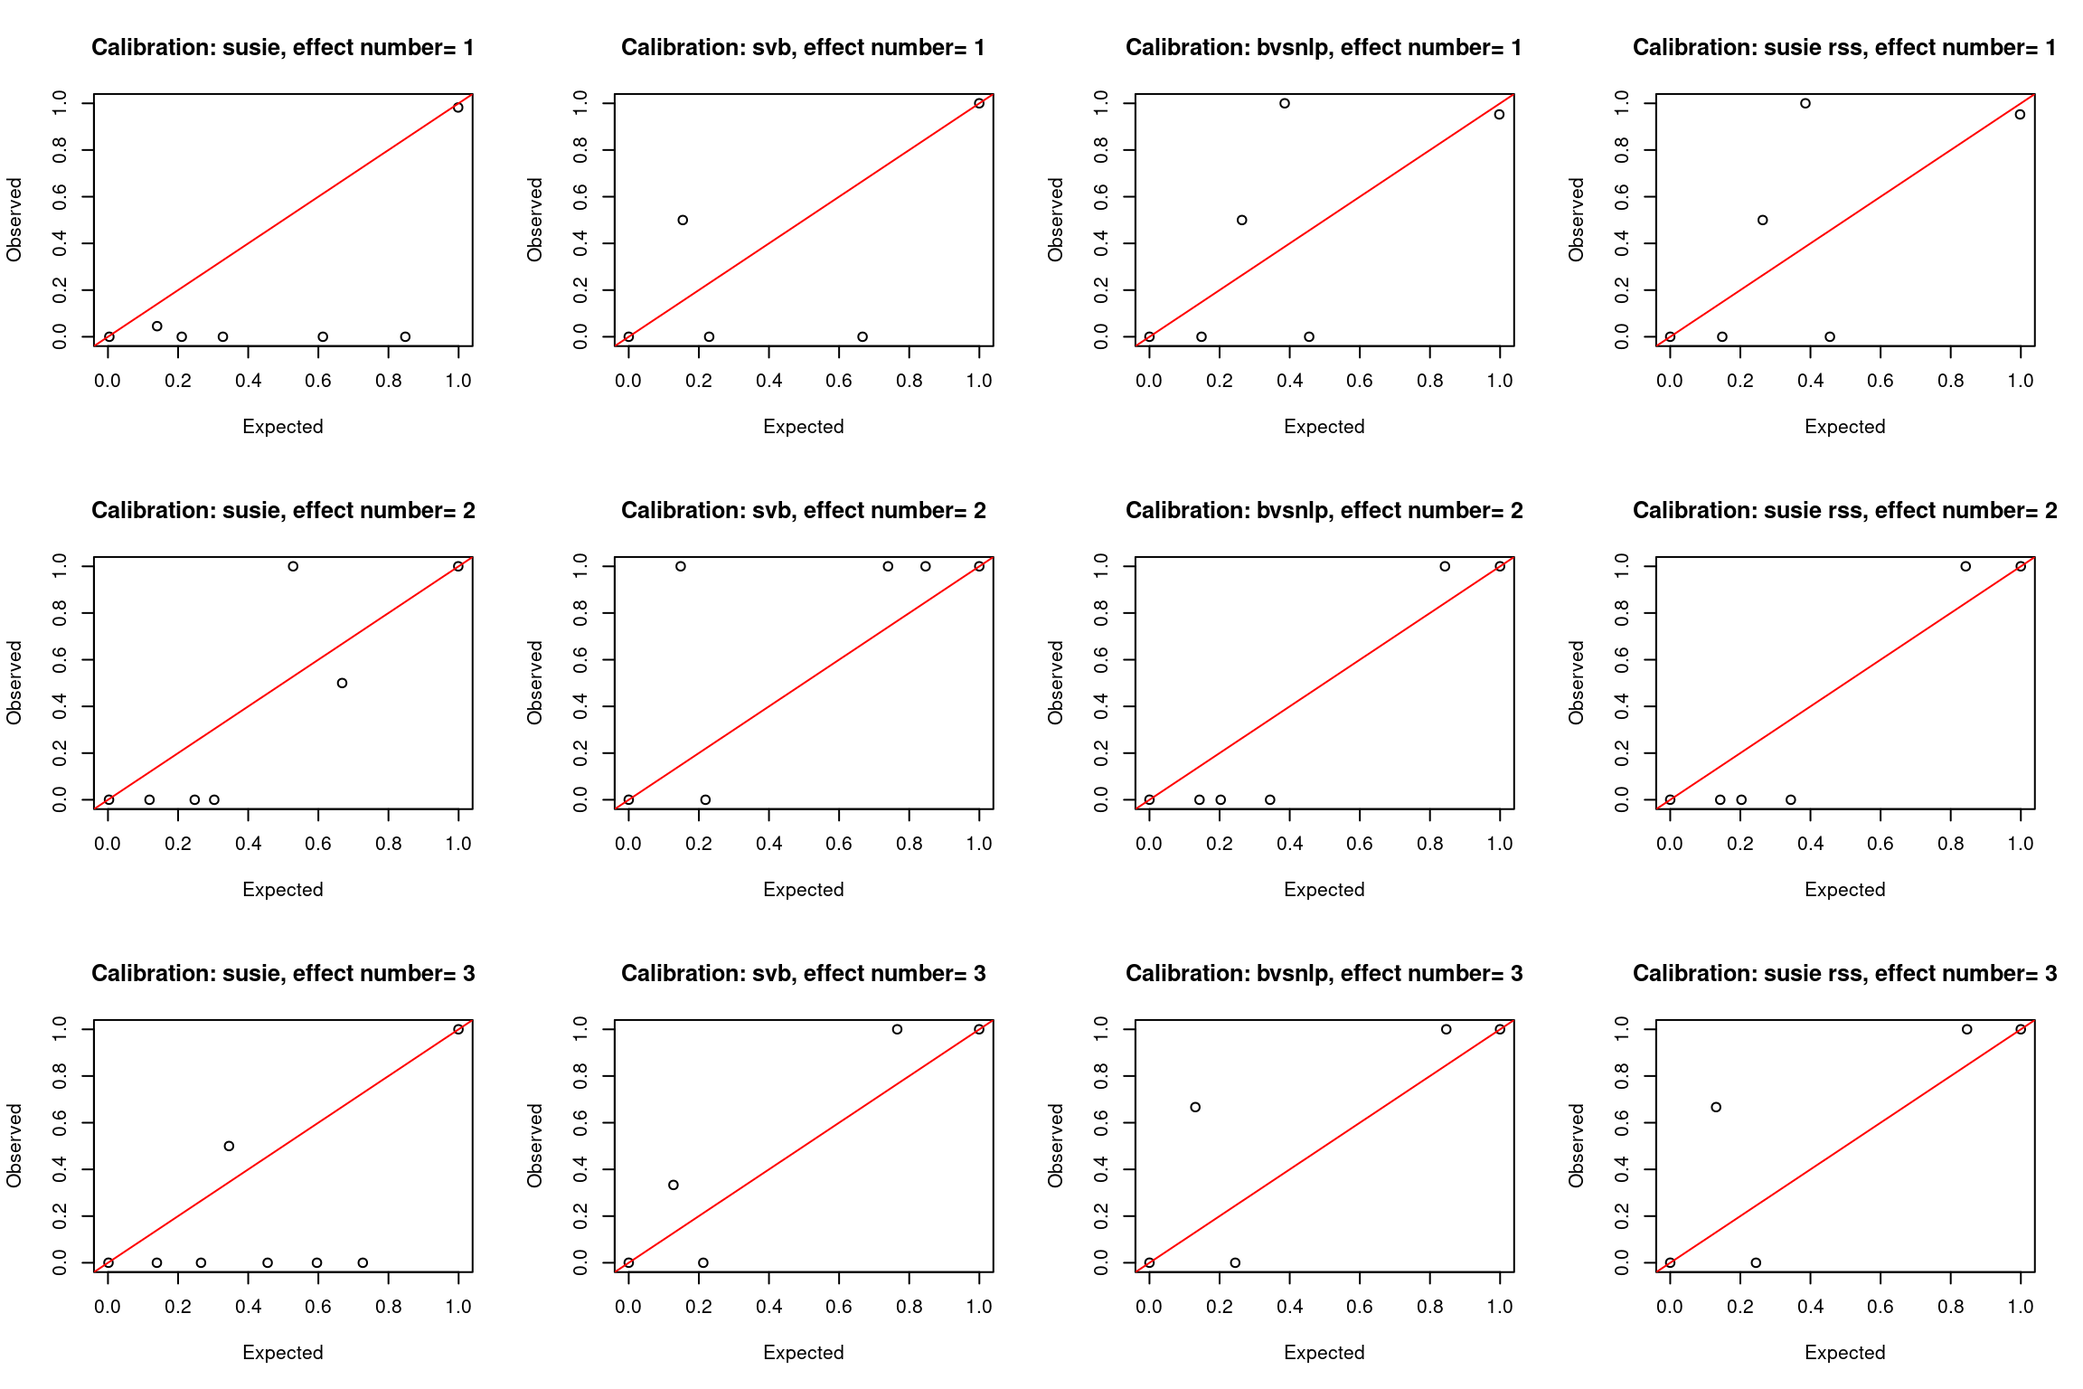
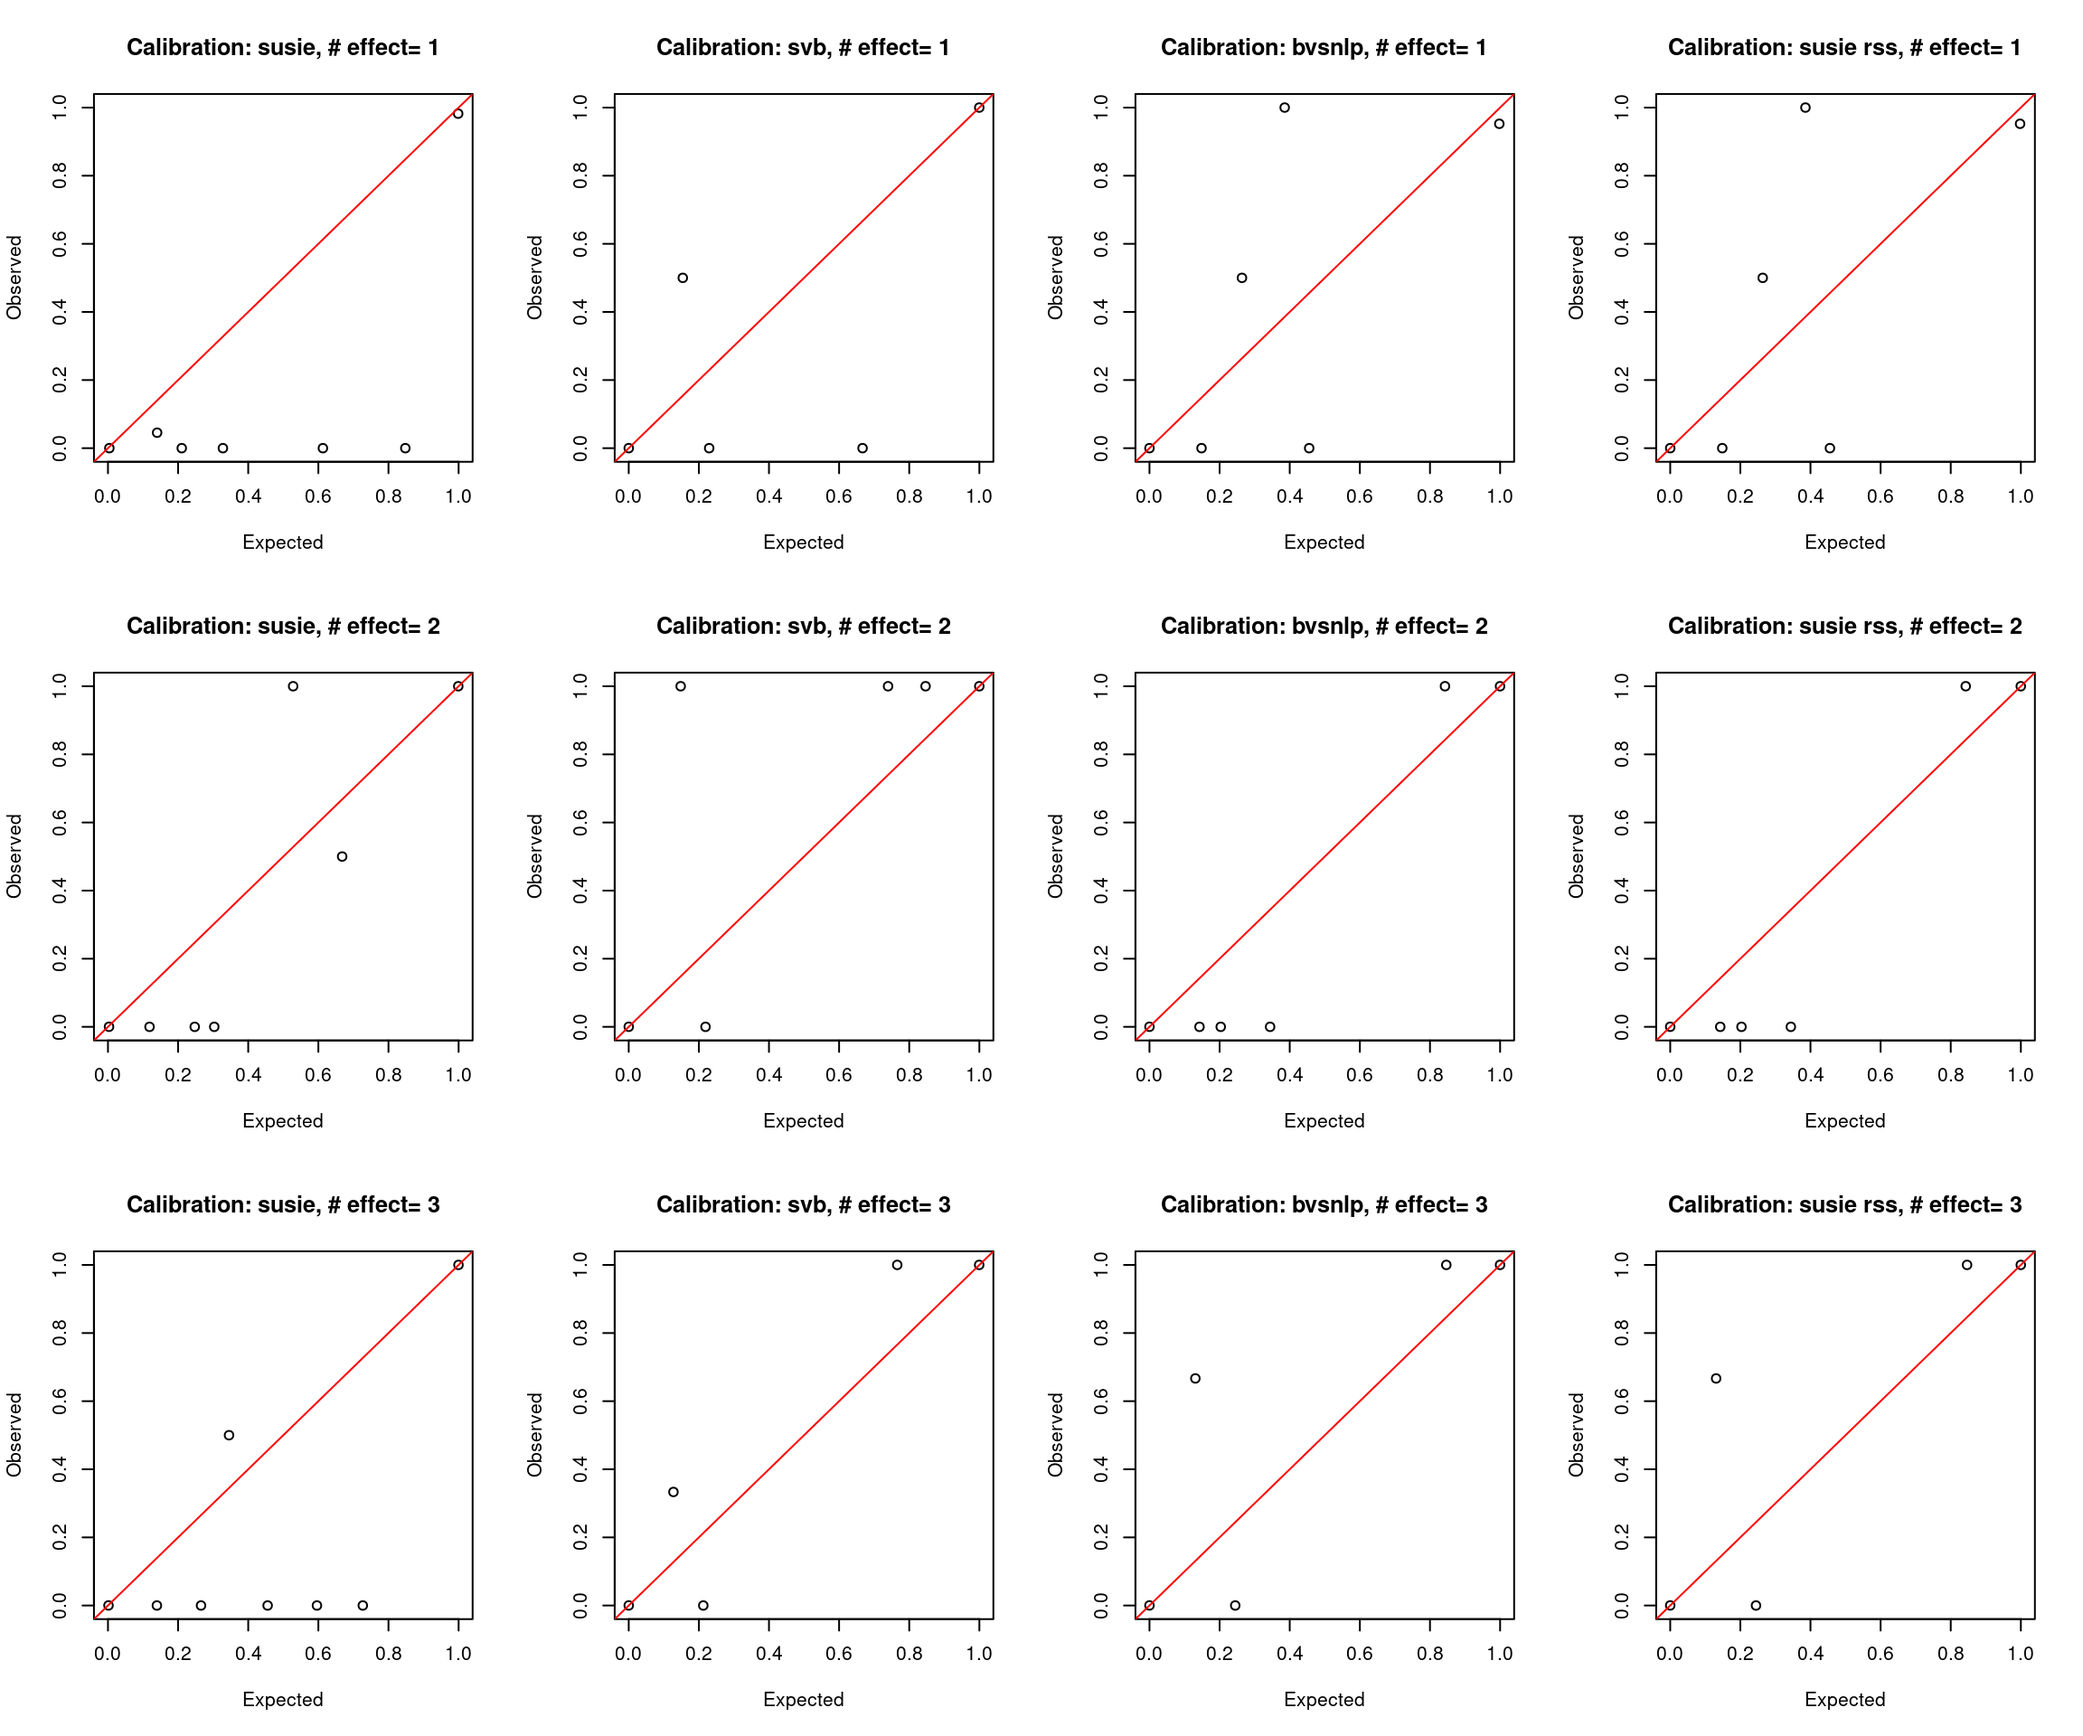
Build site.

diff --git a/docs/calibration_large_sample.html b/docs/calibration_large_sample.html
@@ -522,15 +522,15 @@ project makes it easier to run your code on other machines.</p>
 <div class="panel panel-default">
 <div class="panel-heading">
 <p class="panel-title">
-<a data-toggle="collapse" data-parent="#workflowr-checks" href="#strongRepositoryversionstrongahrefhttpsgithubcomyunqiyang0215survivalsusietreece84d7a393cbaa4b74f80e2a45143d111abdbabetargetblankce84d7aa">
+<a data-toggle="collapse" data-parent="#workflowr-checks" href="#strongRepositoryversionstrongahrefhttpsgithubcomyunqiyang0215survivalsusietreec7dd276476cfc953c58e9450d4ae9bc6bb9746e5targetblankc7dd276a">
 <span class="glyphicon glyphicon-ok text-success"
 aria-hidden="true"></span> <strong>Repository version:</strong>
-<a href="https://github.com/yunqiyang0215/survival-susie/tree/ce84d7a393cbaa4b74f80e2a45143d111abdbabe" target="_blank">ce84d7a</a>
+<a href="https://github.com/yunqiyang0215/survival-susie/tree/c7dd276476cfc953c58e9450d4ae9bc6bb9746e5" target="_blank">c7dd276</a>
 </a>
 </p>
 </div>
 <div
[2 lines of base64/hex data omitted]
 class="panel-collapse collapse">
 <div class="panel-body">
 <p>
@@ -540,7 +540,7 @@ reproducibility.
 </p>
 <p>
 The results in this page were generated with repository version
-<a href="https://github.com/yunqiyang0215/survival-susie/tree/ce84d7a393cbaa4b74f80e2a45143d111abdbabe" target="_blank">ce84d7a</a>.
+<a href="https://github.com/yunqiyang0215/survival-susie/tree/c7dd276476cfc953c58e9450d4ae9bc6bb9746e5" target="_blank">c7dd276</a>.
 See the <em>Past versions</em> tab to see a history of the changes made
 to the R Markdown and HTML files.
 </p>
@@ -611,6 +611,40 @@ Message
 </tr>
 </thead>
 <tbody>
+<tr>
+<td>
+Rmd
+</td>
+<td>
+<a href="https://github.com/yunqiyang0215/survival-susie/blob/c7dd276476cfc953c58e9450d4ae9bc6bb9746e5/analysis/calibration_large_sample.Rmd" target="_blank">c7dd276</a>
+</td>
+<td>
+yunqi yang
+</td>
+<td>
+2024-02-20
+</td>
+<td>
+wflow_publish("analysis/calibration_large_sample.Rmd")
+</td>
+</tr>
+<tr>
+<td>
+html
+</td>
+<td>
+<a href="https://rawcdn.githack.com/yunqiyang0215/survival-susie/2b98170e6d6d2e534560b043a5643d8908b2c390/docs/calibration_large_sample.html" target="_blank">2b98170</a>
+</td>
+<td>
+yunqi yang
+</td>
+<td>
+2024-02-20
+</td>
+<td>
+Build site.
+</td>
+</tr>
 <tr>
 <td>
 Rmd
@@ -722,7 +756,7 @@ wflow_publish("analysis/calibration_large_sample.Rmd")
 
 plot_calibration &lt;- function(dat.calibration, method, num_effect){
   plot(dat.calibration[,2], dat.calibration[,3], xlim = c(0, 1), ylim = c(0, 1),
-       main= paste0(&quot;Calibration: &quot;, method, &quot;, effect number= &quot;, num_effect), xlab=&quot;Expected&quot;, ylab=&quot;Observed&quot;)
+       main= paste0(&quot;Calibration: &quot;, method, &quot;, # effect= &quot;, num_effect), xlab=&quot;Expected&quot;, ylab=&quot;Observed&quot;)
   abline(a = 0, b = 1, col = &quot;red&quot;)
 }</code></pre>
 <pre class="r"><code>susie = readRDS(&quot;/project2/mstephens/yunqiyang/surv-susie/dsc202401/susie.rds&quot;)
@@ -782,6 +816,17 @@ Date
 <tbody>
 <tr>
 <td>
+<a href="https://github.com/yunqiyang0215/survival-susie/blob/2b98170e6d6d2e534560b043a5643d8908b2c390/docs/figure/calibration_large_sample.Rmd/unnamed-chunk-3-1.png" target="_blank">2b98170</a>
+</td>
+<td>
+yunqi yang
+</td>
+<td>
+2024-02-20
+</td>
+</tr>
+<tr>
+<td>
 <a href="https://github.com/yunqiyang0215/survival-susie/blob/2bce02b97cc5f71aaf3ceb3b5d388fcebe4e388e/docs/figure/calibration_large_sample.Rmd/unnamed-chunk-3-1.png" target="_blank">2bce02b</a>
 </td>
 <td>
@@ -836,6 +881,43 @@ for (num in 1:3){
   
 }</code></pre>
 <p><img src="figure/calibration_large_sample.Rmd/unnamed-chunk-4-1.png" width="1152" style="display: block; margin: auto;" /></p>
+<p>
+<button type="button" class="btn btn-default btn-xs btn-workflowr btn-workflowr-fig" data-toggle="collapse" data-target="#fig-unnamed-chunk-4-1">
+Past versions of unnamed-chunk-4-1.png
+</button>
+</p>
+<div id="fig-unnamed-chunk-4-1" class="collapse">
+<div class="table-responsive">
+<table class="table table-condensed table-hover">
+<thead>
+<tr>
+<th>
+Version
+</th>
+<th>
+Author
+</th>
+<th>
+Date
+</th>
+</tr>
+</thead>
+<tbody>
+<tr>
+<td>
+<a href="https://github.com/yunqiyang0215/survival-susie/blob/2b98170e6d6d2e534560b043a5643d8908b2c390/docs/figure/calibration_large_sample.Rmd/unnamed-chunk-4-1.png" target="_blank">2b98170</a>
+</td>
+<td>
+yunqi yang
+</td>
+<td>
+2024-02-20
+</td>
+</tr>
+</tbody>
+</table>
+</div>
+</div>
 <br>
 <p>
 <button type="button" class="btn btn-default btn-workflowr btn-workflowr-sessioninfo" data-toggle="collapse" data-target="#workflowr-sessioninfo" style="display: block;">
